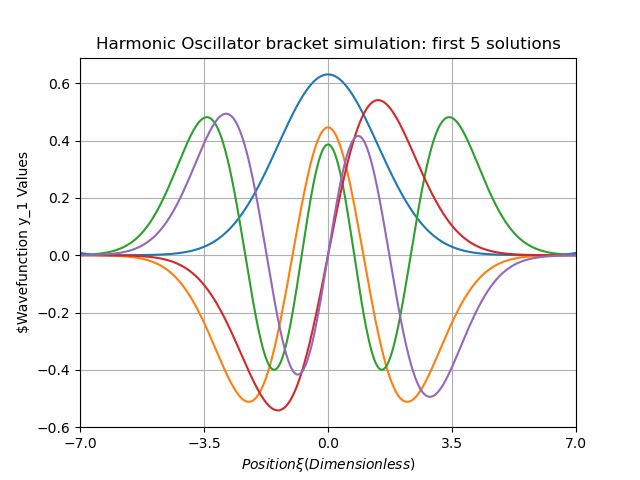
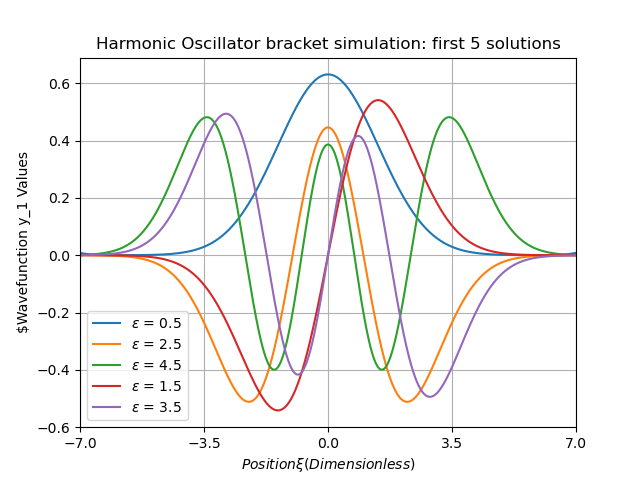
Fix plot graphs not saving legend (#41)
This commit fixes the bug, where when saving the plotted graphs, the legend
would be omitted.

Added fixed graphs.

Changed region(s): [[0.125, 0.625, 0.2812, 0.875]]

diff --git a/util/plot.py b/util/plot.py
@@ -53,7 +53,7 @@ def displayGraph() -> None:
     """`displayGraph` shows the computed simulation graph to the screen."""
 
     plt.legend()
-    
+
     plt.show()
 
 # Save graph to file.
@@ -65,6 +65,9 @@ def saveGraph(outputPath: str = "data", graphName: str = "new-graph") -> None:
 
     filename: str = os.path.join(outputPath, "%s.png" % graphName)
     
+    # Make sure that the legend is alwasy present in the saved figures
+    plt.legend()
+
     plt.savefig(filename)
 
 # Defines well walls on the graph.
